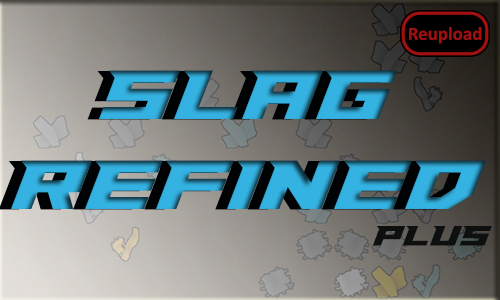
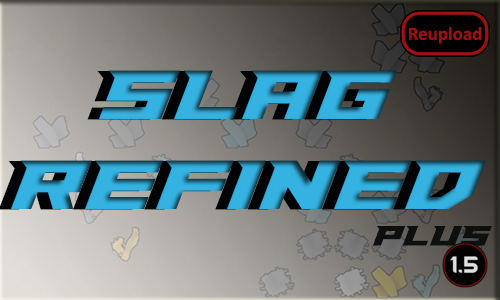
Mod updated for 1.5 and passed autotests

Changed region(s): [[0.87, 0.81, 0.99, 0.96]]

diff --git a/Source/SlagRefinedPlus/SlagPodUtility.cs b/Source/SlagRefinedPlus/SlagPodUtility.cs
@@ -7,7 +7,7 @@ namespace SlagRefinedPlus;
 
 public static class SlagPodUtility
 {
-    private static readonly List<List<Thing>> tempList = new List<List<Thing>>();
+    private static readonly List<List<Thing>> tempList = [];
 
     public static void MakeDropPodAt(IntVec3 c, Map map, ActiveDropPodInfo info)
     {

diff --git a/Source/SlagRefinedPlus/ActiveSlagPodDef.cs b/Source/SlagRefinedPlus/ActiveSlagPodDef.cs
@@ -5,5 +5,5 @@ namespace SlagRefinedPlus;
 
 public class ActiveSlagPodDef : ThingDef
 {
-    public ThingSetMakerDef slagpodContents = null;
+    public readonly ThingSetMakerDef slagpodContents = null;
 }

diff --git a/Source/SlagRefinedPlus/ActiveSlagPod.cs b/Source/SlagRefinedPlus/ActiveSlagPod.cs
@@ -2,6 +2,4 @@ using RimWorld;
 
 namespace SlagRefinedPlus;
 
-public class ActiveSlagPod : ActiveDropPod
-{
-}
+public class ActiveSlagPod : ActiveDropPod;

diff --git a/README.md b/README.md
@@ -48,11 +48,13 @@ https://steamcommunity.com/sharedfiles/filedetails/?id=1503350522
 
 -  See if the the error persists if you just have this mod and its requirements active.
 -  If not, try adding your other mods until it happens again.
--  Post your error-log using https://steamcommunity.com/workshop/filedetails/?id=818773962]HugsLib and command Ctrl+F12
+-  Post your error-log using https://steamcommunity.com/workshop/filedetails/?id=818773962]HugsLib or the standalone https://steamcommunity.com/sharedfiles/filedetails/?id=2873415404]Uploader and command Ctrl+F12
 -  For best support, please use the Discord-channel for error-reporting.
 -  Do not report errors by making a discussion-thread, I get no notification of that.
 -  If you have the solution for a problem, please post it to the GitHub repository.
+-  Use https://github.com/RimSort/RimSort/releases/latest]RimSort to sort your mods
 
 
 
+https://steamcommunity.com/sharedfiles/filedetails/changelog/2042702936]![Image](https://img.shields.io/github/v/release/emipa606/SlagRefinedPlus?label=latest%20version&style=plastic&color=9f1111&labelColor=black)
 
